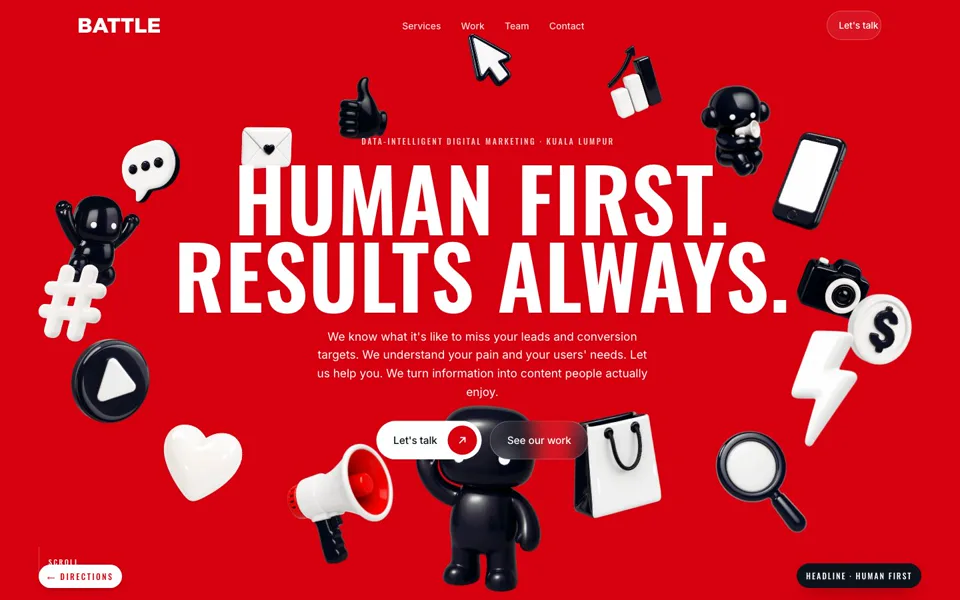
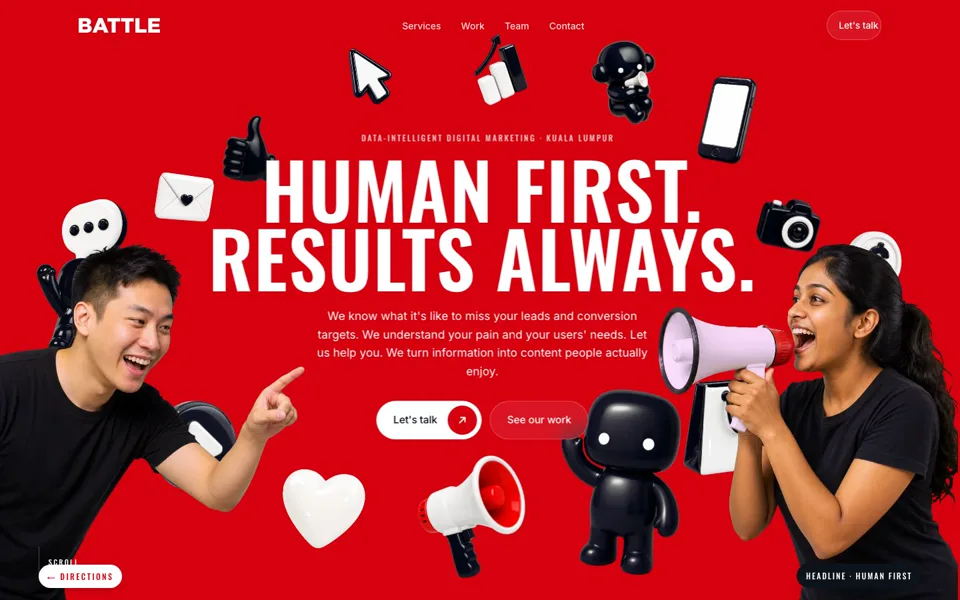
Round 6: people back in the heroes of 21, 22 and 32
Two people lean into the ring on 21 and 22 (load slide-in, pointer parallax,
fly past on scroll); someone crouches by the gachapon machine on 32.
Generic fictional people from the image model, never Battle staff.
?people=0 shows a hero without them.

diff --git a/home-21.html b/home-21.html
@@ -12,12 +12,19 @@
 .hcopy .h1{margin-top:16px}.hcopy .ctas{justify-content:center;opacity:0}
 .hcopy .lead{opacity:0}
 @media (max-width:760px){.hcopy{top:50%;z-index:5}.hcopy .lead{display:none}.h1{font-size:clamp(40px,11.5vw,54px)}.h1.long{font-size:clamp(30px,8.6vw,44px)}}
+.ppl{position:absolute;inset:0;z-index:2;pointer-events:none}
+.pp{position:absolute;bottom:0;height:min(var(--ph,60svh),580px);width:auto;opacity:0;will-change:transform;user-select:none;-webkit-user-drag:none}
+.pp.l{left:0;transform-origin:0 100%}.pp.r{right:0;transform-origin:100% 100%}
+.hcopy{top:48%}
+.hcopy .h1{font-size:clamp(54px,8vw,136px)}.hcopy .h1.long{font-size:clamp(40px,5.6vw,96px)}
+body[data-people="0"] .ppl{display:none}body[data-people="0"] .hcopy .h1{font-size:clamp(54px,9vw,150px)}body[data-people="0"] .hcopy .h1.long{font-size:clamp(44px,6.4vw,108px)}
+@media (max-width:760px){.pp{height:34svh;bottom:-1svh}.pp.l{left:-10vw}.pp.r{right:-10vw}.hcopy{top:42%}.hcopy .h1{font-size:clamp(40px,11.5vw,54px)}}
 .hero{background:var(--red);color:#fff}.cta.gl{color:#fff}</style></head><body class="t21"><a class="back" href="./">← directions</a>
 <header class="nav" id="nav"><div class="wrap"><a class="home" href="#top" aria-label="Battle, back to the top"><img class="lw" src="assets3/battle-white.webp" alt="Battle"><img class="lr" src="assets3/battle-red.webp" alt="" aria-hidden="true"></a>
 <ul><li><a href="#services">Services</a></li><li><a href="#cases">Work</a></li><li><a href="#team">Team</a></li><li><a href="#connect">Contact</a></li></ul>
 <div class="nr"><a class="cta gl sm" href="#connect">Let's talk</a><button class="nb" id="nb" type="button" aria-label="Menu" aria-expanded="false" aria-controls="drawer"><span><i></i><i></i><i></i></span></button></div></div></header>
 <nav class="drawer" id="drawer" aria-label="Menu"><ul><li><a href="#services"><small>01</small>Services</a></li><li><a href="#impact"><small>02</small>Impact</a></li><li><a href="#cases"><small>03</small>Work</a></li><li><a href="#team"><small>04</small>Team</a></li><li><a href="#connect"><small>05</small>Contact</a></li></ul>
-<div class="dct"><a class="cta" href="https://wa.me/60197707927?text=Hi%20Battle%2C%20I%27d%20like%20a%2015-minute%20call%20about%20my%20marketing." target="_blank" rel="noopener">Chat on WhatsApp<span class="ar" aria-hidden="true"><svg viewBox="0 0 16 16"><path d="M4 12 12 4M5.5 4H12v6.5" fill="none" stroke="currentColor" stroke-width="1.8" stroke-linecap="round" stroke-linejoin="round"/></svg><svg viewBox="0 0 16 16"><path d="M4 12 12 4M5.5 4H12v6.5" fill="none" stroke="currentColor" stroke-width="1.8" stroke-linecap="round" stroke-linejoin="round"/></svg></span></a></div><div class="dln"><a href="tel:+60197707927">+6019-770 7927</a><a href="mailto:hello@battlemind.my">hello@battlemind.my</a></div></nav><section class="hero" id="hero" data-tone="dark"><a id="top"></a><div class="ring" id="ring"></div>
+<div class="dct"><a class="cta" href="https://wa.me/60197707927?text=Hi%20Battle%2C%20I%27d%20like%20a%2015-minute%20call%20about%20my%20marketing." target="_blank" rel="noopener">Chat on WhatsApp<span class="ar" aria-hidden="true"><svg viewBox="0 0 16 16"><path d="M4 12 12 4M5.5 4H12v6.5" fill="none" stroke="currentColor" stroke-width="1.8" stroke-linecap="round" stroke-linejoin="round"/></svg><svg viewBox="0 0 16 16"><path d="M4 12 12 4M5.5 4H12v6.5" fill="none" stroke="currentColor" stroke-width="1.8" stroke-linecap="round" stroke-linejoin="round"/></svg></span></a></div><div class="dln"><a href="tel:+60197707927">+6019-770 7927</a><a href="mailto:hello@battlemind.my">hello@battlemind.my</a></div></nav><section class="hero" id="hero" data-tone="dark"><a id="top"></a><div class="ring" id="ring"></div><div class="ppl" aria-hidden="true"><img class="pp l" src="assets2/p_man_l.webp" alt="" draggable="false" style="--ph:60svh"><img class="pp r" src="assets2/p_woman_r.webp" alt="" draggable="false" style="--ph:60svh"></div>
 <div class="hcopy"><div class="hin"><div class="eyebrow"><i></i>Data-intelligent digital marketing · Kuala Lumpur</div><h1 class="h1" id="h1"></h1><p class="lead">We know what it's like to miss your leads and conversion targets. We understand your pain and your users' needs. Let us help you. We turn information into content people actually enjoy.</p><div class="ctas"><a class="cta" href="#connect">Let's talk<span class="ar" aria-hidden="true"><svg viewBox="0 0 16 16"><path d="M4 12 12 4M5.5 4H12v6.5" fill="none" stroke="currentColor" stroke-width="1.8" stroke-linecap="round" stroke-linejoin="round"/></svg><svg viewBox="0 0 16 16"><path d="M4 12 12 4M5.5 4H12v6.5" fill="none" stroke="currentColor" stroke-width="1.8" stroke-linecap="round" stroke-linejoin="round"/></svg></span></a><a class="cta gl" href="#cases">See our work</a></div></div></div>
 <div class="scue" aria-hidden="true"><i></i>Scroll</div></section><section class="sec w" id="clients" data-tone="light"><img class="drift" src="assets2/char2.webp" alt="" aria-hidden="true" loading="lazy" style="right:4%;top:8%;width:clamp(70px,7vw,120px)" data-speed="1.2" data-rot="12"><img class="drift" src="assets2/heart_w.webp" alt="" aria-hidden="true" loading="lazy" style="left:3%;top:70%;width:clamp(50px,5vw,80px)" data-speed="0.8" data-rot="-10"><div class="wrap"><div class="lbl"><span class="act">Results always</span>Our clients</div><h2 class="h2" data-rise>Trusted by <b>160+ Clients</b><br>across <b>14+ Industries</b></h2><div class="lrows" id="lrows" role="list" aria-label="Some of our clients"></div></div></section><section class="sec p" id="services" data-tone="light"><div class="wrap"><div class="shd"><div><div class="lbl"><span class="act hf">Human first</span>How we help</div><h2 class="h2" data-rise>Our <b>Services</b></h2></div><p class="sub" data-rise>Not sure what your marketing actually needs right now? You're not alone, and we're here to help.</p></div>
 <div class="sgrid" id="sgrid" data-icons="assets2"></div>
@@ -40,9 +47,9 @@
 <nav aria-label="Services"><b>Services</b><ul><li><a href="#services">Performance marketing</a></li><li><a href="#services">Creative &amp; content</a></li><li><a href="#services">Web development</a></li><li><a href="#diag">Service finder</a></li></ul></nav>
 <nav aria-label="Company"><b>Company</b><ul><li><a href="#cases">Work</a></li><li><a href="#team">About</a></li><li><a href="#team">Our story</a></li><li><a href="#team">Team</a></li></ul></nav>
 <div><b>Talk</b><ul><li><a href="#connect">Book a 15-minute call</a></li><li><a href="tel:+60197707927">+6019-770 7927</a></li><li><a href="mailto:hello@battlemind.my">hello@battlemind.my</a></li><li><a class="addr" href="https://www.google.com/maps/search/?api=1&amp;query=No.%207-2%2C%20Jalan%202%2F137B%2C%20Resource%20Industrial%20Centre%2C%2058200%20Kuala%20Lumpur" target="_blank" rel="noopener">No. 7-2, Jalan 2/137B, Resource Industrial Centre, Off Jalan Kelang Lama, 58200 Kuala Lumpur</a></li></ul></div></div>
-<div class="fbot"><span>© 2026 Battle Mind Creative Sdn. Bhd. (1379718-A) · BattleX Sdn. Bhd. (1666567-U)</span><a href="#top">Back to top <i aria-hidden="true">↑</i></a></div><div class="big" aria-hidden="true">BATTLE</div></div></footer><div class="note">Direction 21 · the red universe, as a full page. Hero: 22's airy ring of white and black toys orbits the headline on brand red; the ring tilts with the mouse, pieces dodge the cursor, and scrolling flies you through it. Inside the site the same toys drift through the sections (Sue: swirling and getting tangled), the analytics tangle straightens into three moves as you scroll, and every section follows Sue's flow from home-v10 with the deck's copy, logos in their own colours, the diagnostic and the WhatsApp form. Brand: red #D7000F, black #0D131A, white #F1F2F2; Oswald headlines, Inter body, DIN Condensed numbers.</div><button class="tog" id="tog" type="button">Headline · Human first</button><script src="https://cdnjs.cloudflare.com/ajax/libs/gsap/3.12.5/gsap.min.js"></script><script src="https://cdnjs.cloudflare.com/ajax/libs/gsap/3.12.5/ScrollTrigger.min.js"></script><script src="site.js"></script><script>
+<div class="fbot"><span>© 2026 Battle Mind Creative Sdn. Bhd. (1379718-A) · BattleX Sdn. Bhd. (1666567-U)</span><a href="#top">Back to top <i aria-hidden="true">↑</i></a></div><div class="big" aria-hidden="true">BATTLE</div></div></footer><div class="note">Direction 21 · the red universe, as a full page. Hero: two people lean in from the edges (generic fictional people, never Battle staff) while 22's airy ring of white and black toys orbits the headline on brand red; the ring tilts with the mouse, pieces dodge the cursor, and scrolling flies you through it, past the people. Add ?people=0 to the address to see the hero without them. Inside the site the same toys drift through the sections (Sue: swirling and getting tangled), the analytics tangle straightens into three moves as you scroll, and every section follows Sue's flow from home-v10 with the deck's copy, logos in their own colours, the diagnostic and the WhatsApp form. Brand: red #D7000F, black #0D131A, white #F1F2F2; Oswald headlines, Inter body, DIN Condensed numbers.</div><button class="tog" id="tog" type="button">Headline · Human first</button><script src="https://cdnjs.cloudflare.com/ajax/libs/gsap/3.12.5/gsap.min.js"></script><script src="https://cdnjs.cloudflare.com/ajax/libs/gsap/3.12.5/ScrollTrigger.min.js"></script><script src="site.js"></script><script>
 (() => {
-const R = BM.R, q = new URLSearchParams(location.search);
+const R = BM.R, q = new URLSearchParams(location.search); if (q.get('people') === '0') document.body.dataset.people = '0';
 const PIECES = [['char1',1.35],['megaphone_w',1.15],['heart_w',.9],['play_k',.95],['hashtag_w',.9],['char2',1.3],['bubble_w',1],['envelope_w',.95],['thumb_k',1],['cursor_w',.85],['chart_w',1],['char3',1.3],['phone_k',.95],['camera_k',1],['coin_w',.85],['bolt_w',.8],['magnifier_k',1],['bag_w',.95]];
 const ring = document.getElementById('ring'), hero = document.getElementById('hero'); const N = PIECES.length;
 const rnd = i => { const g = Math.sin(i * 12.9898 + 1) * 43758.5453; return g - Math.floor(g); };
@@ -65,9 +72,12 @@ function frame() { if (!run) return; const T = (performance.now() - t0) / 1000;
 new IntersectionObserver(e => { const on = e[0].isIntersecting; if (on && !run) { run = true; frame(); } else if (!on) run = false; }).observe(hero);
 frame();
 hero.addEventListener('pointermove', e => { const r = hero.getBoundingClientRect(); pt = {x: (e.clientX - r.left) / r.width * 2 - 1, y: (e.clientY - r.top) / r.height * 2 - 1}; mouse = {x: e.clientX - r.left, y: e.clientY - r.top};
-  if (!R) gsap.to('.hin', {x: pt.x * 14, y: pt.y * 9, duration: .9, ease: 'power2.out', overwrite: 'auto'}); });
-hero.addEventListener('pointerleave', () => { pt = {x: 0, y: 0}; mouse = {x: -1e4, y: -1e4}; gsap.to('.hin', {x: 0, y: 0, duration: 1}); });
-if (R) { for (const p of P) p.b = 1; gsap.set('.hcopy .ctas, .hcopy .lead', {opacity: 1}); }
-else { const tl = gsap.timeline({delay: .2}); tl.to(P, {b: 1, duration: 1, stagger: {each: .05, from: 'random'}, ease: 'back.out(1.8)'}, 0).to('.h1 .w i', {y: 0, duration: .95, stagger: .12, ease: 'power4.out'}, .35).to('.hcopy .lead', {opacity: 1, duration: .7}, 1).to('.hcopy .ctas', {opacity: 1, duration: .6}, 1.2); }
-if (!R && innerWidth > 760) ScrollTrigger.create({trigger: hero, start: 'top top', end: '+=50%', pin: true, scrub: .5, onUpdate: s => { lift = s.progress; gsap.set('.hin', {scale: 1 - lift * .14, opacity: 1 - lift * 1.25}); gsap.set('.scue', {opacity: 1 - lift * 3}); }});
+  if (!R) { gsap.to('.hin', {x: pt.x * 14, y: pt.y * 9, duration: .9, ease: 'power2.out', overwrite: 'auto'}); if (peopleIn) gsap.to('.pp', {x: -pt.x * 12, y: -pt.y * 6, duration: 1.1, ease: 'power2.out', overwrite: 'auto'}); } });
+hero.addEventListener('pointerleave', () => { pt = {x: 0, y: 0}; mouse = {x: -1e4, y: -1e4}; gsap.to('.hin', {x: 0, y: 0, duration: 1}); if (peopleIn) gsap.to('.pp', {x: 0, y: 0, duration: 1}); });
+let peopleIn = R; const PP = document.querySelectorAll('.pp');
+if (R) { for (const p of P) p.b = 1; gsap.set('.hcopy .ctas, .hcopy .lead', {opacity: 1}); gsap.set(PP, {opacity: 1}); }
+else { const tl = gsap.timeline({delay: .2}); tl.to(P, {b: 1, duration: 1, stagger: {each: .05, from: 'random'}, ease: 'back.out(1.8)'}, 0).to('.h1 .w i', {y: 0, duration: .95, stagger: .12, ease: 'power4.out'}, .35).to('.hcopy .lead', {opacity: 1, duration: .7}, 1).to('.hcopy .ctas', {opacity: 1, duration: .6}, 1.2)
+  .fromTo(PP, {opacity: 0, x: (i, el) => el.classList.contains('l') ? -90 : 90}, {opacity: 1, x: 0, duration: 1.1, stagger: .14, ease: 'power3.out', onComplete: () => { peopleIn = true; }}, .55); }
+if (!R && innerWidth > 760) ScrollTrigger.create({trigger: hero, start: 'top top', end: '+=50%', pin: true, scrub: .5, onUpdate: s => { lift = s.progress; gsap.set('.hin', {scale: 1 - lift * .14, opacity: 1 - lift * 1.25}); gsap.set('.scue', {opacity: 1 - lift * 3});
+  if (peopleIn) { gsap.set('.pp.l', {xPercent: -lift * 70, scale: 1 + lift * .35, opacity: 1 - lift * 1.5}); gsap.set('.pp.r', {xPercent: lift * 70, scale: 1 + lift * .35, opacity: 1 - lift * 1.5}); } }});
 })();</script></body></html>

diff --git a/home-22.html b/home-22.html
@@ -12,12 +12,19 @@
 .hcopy .h1{margin-top:16px}.hcopy .ctas{justify-content:center;opacity:0}
 .hcopy .lead{opacity:0}
 @media (max-width:760px){.hcopy{top:50%;z-index:5}.hcopy .lead{display:none}.h1{font-size:clamp(40px,11.5vw,54px)}.h1.long{font-size:clamp(30px,8.6vw,44px)}}
+.ppl{position:absolute;inset:0;z-index:2;pointer-events:none}
+.pp{position:absolute;bottom:0;height:min(var(--ph,60svh),580px);width:auto;opacity:0;will-change:transform;user-select:none;-webkit-user-drag:none}
+.pp.l{left:0;transform-origin:0 100%}.pp.r{right:0;transform-origin:100% 100%}
+.hcopy{top:48%}
+.hcopy .h1{font-size:clamp(54px,8vw,136px)}.hcopy .h1.long{font-size:clamp(40px,5.6vw,96px)}
+body[data-people="0"] .ppl{display:none}body[data-people="0"] .hcopy .h1{font-size:clamp(54px,9vw,150px)}body[data-people="0"] .hcopy .h1.long{font-size:clamp(44px,6.4vw,108px)}
+@media (max-width:760px){.pp{height:34svh;bottom:-1svh}.pp.l{left:-10vw}.pp.r{right:-10vw}.hcopy{top:42%}.hcopy .h1{font-size:clamp(40px,11.5vw,54px)}}
 .hero{background:#fff;color:var(--ink)}</style></head><body class="t22"><a class="back" href="./">← directions</a>
 <header class="nav" id="nav"><div class="wrap"><a class="home" href="#top" aria-label="Battle, back to the top"><img class="lw" src="assets3/battle-white.webp" alt="Battle"><img class="lr" src="assets3/battle-red.webp" alt="" aria-hidden="true"></a>
 <ul><li><a href="#services">Services</a></li><li><a href="#cases">Work</a></li><li><a href="#team">Team</a></li><li><a href="#connect">Contact</a></li></ul>
 <div class="nr"><a class="cta gl sm" href="#connect">Let's talk</a><button class="nb" id="nb" type="button" aria-label="Menu" aria-expanded="false" aria-controls="drawer"><span><i></i><i></i><i></i></span></button></div></div></header>
 <nav class="drawer" id="drawer" aria-label="Menu"><ul><li><a href="#services"><small>01</small>Services</a></li><li><a href="#impact"><small>02</small>Impact</a></li><li><a href="#cases"><small>03</small>Work</a></li><li><a href="#team"><small>04</small>Team</a></li><li><a href="#connect"><small>05</small>Contact</a></li></ul>
-<div class="dct"><a class="cta" href="https://wa.me/60197707927?text=Hi%20Battle%2C%20I%27d%20like%20a%2015-minute%20call%20about%20my%20marketing." target="_blank" rel="noopener">Chat on WhatsApp<span class="ar" aria-hidden="true"><svg viewBox="0 0 16 16"><path d="M4 12 12 4M5.5 4H12v6.5" fill="none" stroke="currentColor" stroke-width="1.8" stroke-linecap="round" stroke-linejoin="round"/></svg><svg viewBox="0 0 16 16"><path d="M4 12 12 4M5.5 4H12v6.5" fill="none" stroke="currentColor" stroke-width="1.8" stroke-linecap="round" stroke-linejoin="round"/></svg></span></a></div><div class="dln"><a href="tel:+60197707927">+6019-770 7927</a><a href="mailto:hello@battlemind.my">hello@battlemind.my</a></div></nav><section class="hero" id="hero" data-tone="light"><a id="top"></a><div class="ring" id="ring"></div>
+<div class="dct"><a class="cta" href="https://wa.me/60197707927?text=Hi%20Battle%2C%20I%27d%20like%20a%2015-minute%20call%20about%20my%20marketing." target="_blank" rel="noopener">Chat on WhatsApp<span class="ar" aria-hidden="true"><svg viewBox="0 0 16 16"><path d="M4 12 12 4M5.5 4H12v6.5" fill="none" stroke="currentColor" stroke-width="1.8" stroke-linecap="round" stroke-linejoin="round"/></svg><svg viewBox="0 0 16 16"><path d="M4 12 12 4M5.5 4H12v6.5" fill="none" stroke="currentColor" stroke-width="1.8" stroke-linecap="round" stroke-linejoin="round"/></svg></span></a></div><div class="dln"><a href="tel:+60197707927">+6019-770 7927</a><a href="mailto:hello@battlemind.my">hello@battlemind.my</a></div></nav><section class="hero" id="hero" data-tone="light"><a id="top"></a><div class="ring" id="ring"></div><div class="ppl" aria-hidden="true"><img class="pp l" src="assets2/p_woman_l2.webp" alt="" draggable="false" style="--ph:50svh"><img class="pp r" src="assets2/p_man_r2.webp" alt="" draggable="false" style="--ph:58svh"></div>
 <div class="hcopy"><div class="hin"><div class="eyebrow"><i></i>Data-intelligent digital marketing · Kuala Lumpur</div><h1 class="h1" id="h1"></h1><p class="lead">We know what it's like to miss your leads and conversion targets. We understand your pain and your users' needs. Let us help you. We turn information into content people actually enjoy.</p><div class="ctas"><a class="cta rd" href="#connect">Let's talk<span class="ar" aria-hidden="true"><svg viewBox="0 0 16 16"><path d="M4 12 12 4M5.5 4H12v6.5" fill="none" stroke="currentColor" stroke-width="1.8" stroke-linecap="round" stroke-linejoin="round"/></svg><svg viewBox="0 0 16 16"><path d="M4 12 12 4M5.5 4H12v6.5" fill="none" stroke="currentColor" stroke-width="1.8" stroke-linecap="round" stroke-linejoin="round"/></svg></span></a><a class="cta gl dk" href="#cases">See our work</a></div></div></div>
 <div class="scue" aria-hidden="true"><i></i>Scroll</div></section><section class="sec p" id="clients" data-tone="light"><img class="drift" src="assets2/char2.webp" alt="" aria-hidden="true" loading="lazy" style="right:4%;top:8%;width:clamp(70px,7vw,120px)" data-speed="1.2" data-rot="12"><img class="drift" src="assets2/heart_r.webp" alt="" aria-hidden="true" loading="lazy" style="left:3%;top:70%;width:clamp(50px,5vw,80px)" data-speed="0.8" data-rot="-10"><div class="wrap"><div class="lbl"><span class="act">Results always</span>Our clients</div><h2 class="h2" data-rise>Trusted by <b>160+ Clients</b><br>across <b>14+ Industries</b></h2><div class="lrows" id="lrows" role="list" aria-label="Some of our clients"></div></div></section><section class="sec w" id="services" data-tone="light"><div class="wrap"><div class="shd"><div><div class="lbl"><span class="act hf">Human first</span>How we help</div><h2 class="h2" data-rise>Our <b>Services</b></h2></div><p class="sub" data-rise>Not sure what your marketing actually needs right now? You're not alone, and we're here to help.</p></div>
 <div class="sgrid" id="sgrid" data-icons="assets2"></div>
@@ -40,9 +47,9 @@
 <nav aria-label="Services"><b>Services</b><ul><li><a href="#services">Performance marketing</a></li><li><a href="#services">Creative &amp; content</a></li><li><a href="#services">Web development</a></li><li><a href="#diag">Service finder</a></li></ul></nav>
 <nav aria-label="Company"><b>Company</b><ul><li><a href="#cases">Work</a></li><li><a href="#team">About</a></li><li><a href="#team">Our story</a></li><li><a href="#team">Team</a></li></ul></nav>
 <div><b>Talk</b><ul><li><a href="#connect">Book a 15-minute call</a></li><li><a href="tel:+60197707927">+6019-770 7927</a></li><li><a href="mailto:hello@battlemind.my">hello@battlemind.my</a></li><li><a class="addr" href="https://www.google.com/maps/search/?api=1&amp;query=No.%207-2%2C%20Jalan%202%2F137B%2C%20Resource%20Industrial%20Centre%2C%2058200%20Kuala%20Lumpur" target="_blank" rel="noopener">No. 7-2, Jalan 2/137B, Resource Industrial Centre, Off Jalan Kelang Lama, 58200 Kuala Lumpur</a></li></ul></div></div>
-<div class="fbot"><span>© 2026 Battle Mind Creative Sdn. Bhd. (1379718-A) · BattleX Sdn. Bhd. (1666567-U)</span><a href="#top">Back to top <i aria-hidden="true">↑</i></a></div><div class="big" aria-hidden="true">BATTLE</div></div></footer><div class="note">Direction 22 · the white universe, as a full page. Hero: red and black toys orbit the headline on white; mouse tilt, cursor dodge, scroll fly-through. The rest follows Sue's flow from home-v10: clients in their own colours, services with the deck's copy and the diagnostic, impact numbers in DIN Condensed, the analytics tangle that straightens, case studies, team ribbons, the WhatsApp form. Brand colours and fonts only.</div><button class="tog" id="tog" type="button">Headline · Human first</button><script src="https://cdnjs.cloudflare.com/ajax/libs/gsap/3.12.5/gsap.min.js"></script><script src="https://cdnjs.cloudflare.com/ajax/libs/gsap/3.12.5/ScrollTrigger.min.js"></script><script src="site.js"></script><script>
+<div class="fbot"><span>© 2026 Battle Mind Creative Sdn. Bhd. (1379718-A) · BattleX Sdn. Bhd. (1666567-U)</span><a href="#top">Back to top <i aria-hidden="true">↑</i></a></div><div class="big" aria-hidden="true">BATTLE</div></div></footer><div class="note">Direction 22 · the white universe, as a full page. Hero: two people lean in from the edges (generic fictional people, never Battle staff) while red and black toys orbit the headline on white; mouse tilt, cursor dodge, scroll fly-through past the people. Add ?people=0 to the address to see the hero without them. The rest follows Sue's flow from home-v10: clients in their own colours, services with the deck's copy and the diagnostic, impact numbers in DIN Condensed, the analytics tangle that straightens, case studies, team ribbons, the WhatsApp form. Brand colours and fonts only.</div><button class="tog" id="tog" type="button">Headline · Human first</button><script src="https://cdnjs.cloudflare.com/ajax/libs/gsap/3.12.5/gsap.min.js"></script><script src="https://cdnjs.cloudflare.com/ajax/libs/gsap/3.12.5/ScrollTrigger.min.js"></script><script src="site.js"></script><script>
 (() => {
-const R = BM.R, q = new URLSearchParams(location.search);
+const R = BM.R, q = new URLSearchParams(location.search); if (q.get('people') === '0') document.body.dataset.people = '0';
 const PIECES = [['char1',1.35],['megaphone_r',1.15],['heart_r',.9],['play_r',.95],['hashtag_r',.9],['char2',1.3],['bubble_k',1],['envelope_r',.95],['thumb_k',1],['cursor_k',.85],['chart_r',1],['char3',1.3],['phone_k',.95],['camera_k',1],['coin_k',.85],['bolt_r',.8],['magnifier_k',1],['bag_r',.95]];
 const ring = document.getElementById('ring'), hero = document.getElementById('hero'); const N = PIECES.length;
 const rnd = i => { const g = Math.sin(i * 12.9898 + 1) * 43758.5453; return g - Math.floor(g); };
@@ -65,9 +72,12 @@ function frame() { if (!run) return; const T = (performance.now() - t0) / 1000;
 new IntersectionObserver(e => { const on = e[0].isIntersecting; if (on && !run) { run = true; frame(); } else if (!on) run = false; }).observe(hero);
 frame();
 hero.addEventListener('pointermove', e => { const r = hero.getBoundingClientRect(); pt = {x: (e.clientX - r.left) / r.width * 2 - 1, y: (e.clientY - r.top) / r.height * 2 - 1}; mouse = {x: e.clientX - r.left, y: e.clientY - r.top};
-  if (!R) gsap.to('.hin', {x: pt.x * 14, y: pt.y * 9, duration: .9, ease: 'power2.out', overwrite: 'auto'}); });
-hero.addEventListener('pointerleave', () => { pt = {x: 0, y: 0}; mouse = {x: -1e4, y: -1e4}; gsap.to('.hin', {x: 0, y: 0, duration: 1}); });
-if (R) { for (const p of P) p.b = 1; gsap.set('.hcopy .ctas, .hcopy .lead', {opacity: 1}); }
-else { const tl = gsap.timeline({delay: .2}); tl.to(P, {b: 1, duration: 1, stagger: {each: .05, from: 'random'}, ease: 'back.out(1.8)'}, 0).to('.h1 .w i', {y: 0, duration: .95, stagger: .12, ease: 'power4.out'}, .35).to('.hcopy .lead', {opacity: 1, duration: .7}, 1).to('.hcopy .ctas', {opacity: 1, duration: .6}, 1.2); }
-if (!R && innerWidth > 760) ScrollTrigger.create({trigger: hero, start: 'top top', end: '+=50%', pin: true, scrub: .5, onUpdate: s => { lift = s.progress; gsap.set('.hin', {scale: 1 - lift * .14, opacity: 1 - lift * 1.25}); gsap.set('.scue', {opacity: 1 - lift * 3}); }});
+  if (!R) { gsap.to('.hin', {x: pt.x * 14, y: pt.y * 9, duration: .9, ease: 'power2.out', overwrite: 'auto'}); if (peopleIn) gsap.to('.pp', {x: -pt.x * 12, y: -pt.y * 6, duration: 1.1, ease: 'power2.out', overwrite: 'auto'}); } });
+hero.addEventListener('pointerleave', () => { pt = {x: 0, y: 0}; mouse = {x: -1e4, y: -1e4}; gsap.to('.hin', {x: 0, y: 0, duration: 1}); if (peopleIn) gsap.to('.pp', {x: 0, y: 0, duration: 1}); });
+let peopleIn = R; const PP = document.querySelectorAll('.pp');
+if (R) { for (const p of P) p.b = 1; gsap.set('.hcopy .ctas, .hcopy .lead', {opacity: 1}); gsap.set(PP, {opacity: 1}); }
+else { const tl = gsap.timeline({delay: .2}); tl.to(P, {b: 1, duration: 1, stagger: {each: .05, from: 'random'}, ease: 'back.out(1.8)'}, 0).to('.h1 .w i', {y: 0, duration: .95, stagger: .12, ease: 'power4.out'}, .35).to('.hcopy .lead', {opacity: 1, duration: .7}, 1).to('.hcopy .ctas', {opacity: 1, duration: .6}, 1.2)
+  .fromTo(PP, {opacity: 0, x: (i, el) => el.classList.contains('l') ? -90 : 90}, {opacity: 1, x: 0, duration: 1.1, stagger: .14, ease: 'power3.out', onComplete: () => { peopleIn = true; }}, .55); }
+if (!R && innerWidth > 760) ScrollTrigger.create({trigger: hero, start: 'top top', end: '+=50%', pin: true, scrub: .5, onUpdate: s => { lift = s.progress; gsap.set('.hin', {scale: 1 - lift * .14, opacity: 1 - lift * 1.25}); gsap.set('.scue', {opacity: 1 - lift * 3});
+  if (peopleIn) { gsap.set('.pp.l', {xPercent: -lift * 70, scale: 1 + lift * .35, opacity: 1 - lift * 1.5}); gsap.set('.pp.r', {xPercent: lift * 70, scale: 1 + lift * .35, opacity: 1 - lift * 1.5}); } }});
 })();</script></body></html>

diff --git a/home-32.html b/home-32.html
@@ -28,7 +28,9 @@
 .callout small{display:block;font:500 10px var(--h);letter-spacing:.22em;color:#ff6b70;text-transform:uppercase}
 .callout b{display:block;font:600 20px/1.1 var(--h);letter-spacing:.03em;text-transform:uppercase}
 .scue.w{color:#fff}
-@media (max-width:760px){.machine{height:60vh;right:-10vw}.h1b{top:12%;translate:0 0;width:90vw}.h1b .lead{display:none}.cap{display:none}.pile,.veil,.h1a{display:none}.h1b{opacity:1}}
+.stage .pp{position:absolute;left:0;bottom:0;height:34vh;width:auto;opacity:1;user-select:none;-webkit-user-drag:none}
+body[data-people="0"] .stage .pp{display:none}
+@media (max-width:760px){.machine{height:60vh;right:-10vw}.h1b{top:12%;translate:0 0;width:90vw}.h1b .lead{display:none}.cap{display:none}.pile,.veil,.h1a{display:none}.h1b{opacity:1}.stage .pp{left:2vw!important;height:30svh}}
 
 .capsule{display:block;width:clamp(70px,7vw,110px);aspect-ratio:1;border-radius:50%;overflow:hidden;position:absolute;filter:drop-shadow(0 20px 24px rgba(13,19,26,.22))}
 .capsule .ct,.capsule .cb{position:absolute;left:0;width:100%;height:50%}
@@ -48,7 +50,7 @@
 <div class="nr"><a class="cta gl sm" href="#connect">Let's talk</a><button class="nb" id="nb" type="button" aria-label="Menu" aria-expanded="false" aria-controls="drawer"><span><i></i><i></i><i></i></span></button></div></div></header>
 <nav class="drawer" id="drawer" aria-label="Menu"><ul><li><a href="#services"><small>01</small>Services</a></li><li><a href="#impact"><small>02</small>Impact</a></li><li><a href="#cases"><small>03</small>Work</a></li><li><a href="#team"><small>04</small>Team</a></li><li><a href="#connect"><small>05</small>Contact</a></li></ul>
 <div class="dct"><a class="cta" href="https://wa.me/60197707927?text=Hi%20Battle%2C%20I%27d%20like%20a%2015-minute%20call%20about%20my%20marketing." target="_blank" rel="noopener">Chat on WhatsApp<span class="ar" aria-hidden="true"><svg viewBox="0 0 16 16"><path d="M4 12 12 4M5.5 4H12v6.5" fill="none" stroke="currentColor" stroke-width="1.8" stroke-linecap="round" stroke-linejoin="round"/></svg><svg viewBox="0 0 16 16"><path d="M4 12 12 4M5.5 4H12v6.5" fill="none" stroke="currentColor" stroke-width="1.8" stroke-linecap="round" stroke-linejoin="round"/></svg></span></a></div><div class="dln"><a href="tel:+60197707927">+6019-770 7927</a><a href="mailto:hello@battlemind.my">hello@battlemind.my</a></div></nav><section class="hero" id="hero" data-tone="dark"><a id="top"></a>
-<div class="stage" id="stage"><img class="machine" id="machine" src="assets2/machine.webp" alt="Capsule-toy machine full of marketing tools" draggable="false"></div>
+<div class="stage" id="stage"><img class="machine" id="machine" src="assets2/machine.webp" alt="Capsule-toy machine full of marketing tools" draggable="false"><img class="pp" id="ppg" src="assets2/p_gacha.webp" alt="" draggable="false" aria-hidden="true"></div>
 <div class="pile" id="pile"></div><div class="veil" id="veil"></div>
 <div class="h1a" id="h1a"><h1 class="h1"></h1><p class="lead">Every tool in digital marketing, in one machine. Scroll to see what's inside.</p></div>
 <div class="h1b" id="h1b"><div class="eyebrow"><i></i>Data-intelligent digital marketing · Kuala Lumpur</div><h1 class="h1"></h1><p class="lead">We know what it's like to miss your leads and conversion targets. We understand your pain and your users' needs. Let us help you. We turn information into content people actually enjoy.</p><div class="ctas"><a class="cta rd" href="#connect">Let's talk<span class="ar" aria-hidden="true"><svg viewBox="0 0 16 16"><path d="M4 12 12 4M5.5 4H12v6.5" fill="none" stroke="currentColor" stroke-width="1.8" stroke-linecap="round" stroke-linejoin="round"/></svg><svg viewBox="0 0 16 16"><path d="M4 12 12 4M5.5 4H12v6.5" fill="none" stroke="currentColor" stroke-width="1.8" stroke-linecap="round" stroke-linejoin="round"/></svg></span></a><a class="cta gl dk" href="#cases">See our work</a></div></div>
@@ -74,9 +76,9 @@
 <nav aria-label="Services"><b>Services</b><ul><li><a href="#services">Performance marketing</a></li><li><a href="#services">Creative &amp; content</a></li><li><a href="#services">Web development</a></li><li><a href="#diag">Service finder</a></li></ul></nav>
 <nav aria-label="Company"><b>Company</b><ul><li><a href="#cases">Work</a></li><li><a href="#team">About</a></li><li><a href="#team">Our story</a></li><li><a href="#team">Team</a></li></ul></nav>
 <div><b>Talk</b><ul><li><a href="#connect">Book a 15-minute call</a></li><li><a href="tel:+60197707927">+6019-770 7927</a></li><li><a href="mailto:hello@battlemind.my">hello@battlemind.my</a></li><li><a class="addr" href="https://www.google.com/maps/search/?api=1&amp;query=No.%207-2%2C%20Jalan%202%2F137B%2C%20Resource%20Industrial%20Centre%2C%2058200%20Kuala%20Lumpur" target="_blank" rel="noopener">No. 7-2, Jalan 2/137B, Resource Industrial Centre, Off Jalan Kelang Lama, 58200 Kuala Lumpur</a></li></ul></div></div>
-<div class="fbot"><span>© 2026 Battle Mind Creative Sdn. Bhd. (1379718-A) · BattleX Sdn. Bhd. (1666567-U)</span><a href="#top">Back to top <i aria-hidden="true">↑</i></a></div><div class="big" aria-hidden="true">BATTLE</div></div></footer><div class="note">Direction 32 · the gachapon, as a full page. Hero: you open zoomed into the pile inside the dome; the first scroll pulls back to the whole machine, then each scroll dispenses a capsule that opens into one service, four in a tray. Inside the site the capsule carries on: the service cards sit in capsules that pop open on hover, the impact numbers carry a capsule each, capsules drift through the contact section. Sue's flow from home-v10, the deck's copy, brand colours and fonts only.</div><button class="tog" id="tog" type="button">Headline · Human first</button><script src="https://cdnjs.cloudflare.com/ajax/libs/gsap/3.12.5/gsap.min.js"></script><script src="https://cdnjs.cloudflare.com/ajax/libs/gsap/3.12.5/ScrollTrigger.min.js"></script><script src="site.js"></script><script>
+<div class="fbot"><span>© 2026 Battle Mind Creative Sdn. Bhd. (1379718-A) · BattleX Sdn. Bhd. (1666567-U)</span><a href="#top">Back to top <i aria-hidden="true">↑</i></a></div><div class="big" aria-hidden="true">BATTLE</div></div></footer><div class="note">Direction 32 · the gachapon, as a full page. Hero: you open zoomed into the pile inside the dome; the first scroll pulls back to the whole machine, then each scroll dispenses a capsule that opens into one service, four in a tray, with someone crouched by the machine waiting for it (a generic fictional person, never Battle staff; add ?people=0 to hide her). Inside the site the capsule carries on: the service cards sit in capsules that pop open on hover, the impact numbers carry a capsule each, capsules drift through the contact section. Sue's flow from home-v10, the deck's copy, brand colours and fonts only.</div><button class="tog" id="tog" type="button">Headline · Human first</button><script src="https://cdnjs.cloudflare.com/ajax/libs/gsap/3.12.5/gsap.min.js"></script><script src="https://cdnjs.cloudflare.com/ajax/libs/gsap/3.12.5/ScrollTrigger.min.js"></script><script src="site.js"></script><script>
 (() => {
-const R = BM.R, q = new URLSearchParams(location.search);
+const R = BM.R, q = new URLSearchParams(location.search); if (q.get('people') === '0') document.body.dataset.people = '0';
 const M = {dx: +(q.get("dx") || .495), dy: +(q.get("dy") || .28), dd: +(q.get("dd") || .77), cx: +(q.get("cx") || .30), cy: +(q.get("cy") || .84)};
 const SV = [['cursor_r', '01 · Web & e-commerce', 'Build your conversion engine'], ['megaphone_r', '02 · Performance', 'High-intent paid traffic'], ['play_r', '03 · Creative & content', 'Scroll-stopping creative'], ['magnifier_r', '04 · Organic & AI search', 'Organic brand authority']];
 const hero = document.getElementById('hero'), stage = document.getElementById('stage'), machine = document.getElementById('machine'), pile = document.getElementById('pile'), veil = document.getElementById('veil'), h1a = document.getElementById('h1a'), h1b = document.getElementById('h1b'), callout = document.getElementById('callout'), scue = document.getElementById('scue');
@@ -86,7 +88,9 @@ function layout() { w = hero.clientWidth; h = hero.clientHeight; const r = machi
   const mx = r.left - hr.left, my = r.top - hr.top; dome = {x: mx + r.width * M.dx, y: my + r.height * M.dy, d: r.width * M.dd}; chute = {x: mx + r.width * M.cx, y: my + r.height * M.cy};
   stage.style.transformOrigin = `${dome.x}px ${dome.y}px`; S0 = Math.hypot(w, h) * 1.02 / dome.d;
   land = {x: Math.min(w * .56, mx - 110), y: h * .72}; const gut = parseFloat(getComputedStyle(document.documentElement).getPropertyValue('--gut')) || 40;
-  slots = SV.map((s, k) => ({x: gut + 60 + k * Math.min(200, (land.x - gut - 40) / 4), y: h * .86})); }
+  slots = SV.map((s, k) => ({x: gut + 60 + k * Math.min(200, (land.x - gut - 40) / 4), y: h * .86}));
+  if (w > 760) ppg.style.left = Math.max(w * .3, land.x - 85 - ppg.offsetWidth) + 'px'; }
+const ppg = document.getElementById('ppg'); ppg.addEventListener('load', layout);
 layout(); addEventListener('resize', () => { layout(); build(); });
 let ptr = {x: 0, y: 0}, pt = {x: 0, y: 0};
 function zoom(z) { const e = gsap.parseEase('power2.inOut')(z); const sc = S0 + (1 - S0) * e, tx = (w / 2 - dome.x) * (1 - e) + ptr.x * 12 * (1 - e), ty = (h / 2 - dome.y) * (1 - e) + ptr.y * 8 * (1 - e);

diff --git a/index.html b/index.html
@@ -20,14 +20,14 @@ h1{font-weight:800;letter-spacing:-.03em;font-size:clamp(34px,4.5vw,60px);line-h
 .mv{display:grid;grid-template-columns:repeat(auto-fit,minmax(380px,1fr));gap:28px;padding:0 40px 70px;max-width:1400px;margin:0 auto}.mv .card video{display:block;width:100%;aspect-ratio:16/10;background:#111}.mv .card .b a{color:var(--red);font-weight:600;text-decoration:none;margin-right:16px}
 .foot{padding:0 40px 60px;max-width:1400px;margin:0 auto;color:#666;font-size:13px}
 </style></head><body>
-<div class="top" id="full"><div class="lbl">Round 5 · David, 7 Nov · full-page experiences</div>
-<h1>21, 22 and 32 as whole homepages.</h1>
-<div class="brief"><span class="r">21 red universe</span><span class="r">22 white universe</span><span class="r">32 gachapon</span><span>Sue's flow from home-v10</span><span>brand: #D7000F · #0D131A · #F1F2F2</span><span>Oswald · Inter · DIN Condensed</span></div>
-<p class="note">Each one is a complete homepage: its hero, then Sue's eight sections from home-v10 in order (clients, services with the deck's diagnostic, impact, analytics to plan, case studies, team, the 15-minute call, footer) with the deck's copy and Battle's logo, colours and fonts. Open on a laptop, move the mouse, scroll; the pill at the bottom right switches the headline. Phones get a lighter version.</p></div>
+<div class="top" id="full"><div class="lbl">Round 5 + 6 · David, 7 Nov · full-page experiences, now with people</div>
+<h1>21, 22 and 32 as whole homepages, with people in the hero.</h1>
+<div class="brief"><span class="r">21 red universe</span><span class="r">22 white universe</span><span class="r">32 gachapon</span><span class="r">people back in the hero</span><span>Sue's flow from home-v10</span><span>brand: #D7000F · #0D131A · #F1F2F2</span><span>Oswald · Inter · DIN Condensed</span></div>
+<p class="note">Each one is a complete homepage: its hero, then Sue's eight sections from home-v10 in order (clients, services with the deck's diagnostic, impact, analytics to plan, case studies, team, the 15-minute call, footer) with the deck's copy and Battle's logo, colours and fonts. Open on a laptop, move the mouse, scroll; the pill at the bottom right switches the headline. Phones get a lighter version. Round 6 (same evening): David picked the version with people, so each hero now has people leaning into the scene as in the 21 render. They are generic fictional people from the image model, never Battle staff; for the real site they would be shot with the team. Add <code>?people=0</code> to a page address to see the hero without them.</p></div>
 <div class="mv">
- <div class="card"><a href="home-21.html"><img src="gen/full-21.webp" alt="21 · red universe, full page" style="aspect-ratio:16/10;cursor:pointer"></a><div class="b"><h2><small>21</small>Red universe, full page</h2><p>The white and black toys orbit the headline on brand red; the ring tilts with the mouse and flies past as you scroll. The same toys drift through the sections, and the analytics tangle straightens into three moves.</p><p style="margin-top:12px"><a href="home-21.html">Open the full page →</a></p></div></div>
- <div class="card"><a href="home-22.html"><img src="gen/full-22.webp" alt="22 · white universe, full page" style="aspect-ratio:16/10;cursor:pointer"></a><div class="b"><h2><small>22</small>White universe, full page</h2><p>Red and black toys on white: the same orbit, mouse tilt and fly-through, with the dark impact band and a paper-grey client wall. Nine new red and black pieces were made for it.</p><p style="margin-top:12px"><a href="home-22.html">Open the full page →</a></p></div></div>
- <div class="card"><a href="home-32.html"><img src="gen/full-32.webp" alt="32 · gachapon, full page" style="aspect-ratio:16/10;cursor:pointer"></a><div class="b"><h2><small>32</small>Gachapon, full page</h2><p>Opens inside the dome, zooms out to the machine, dispenses the four services into a tray. The capsule carries on below: service cards in capsules that pop open on hover, a capsule on every impact number, capsules drifting through the contact section.</p><p style="margin-top:12px"><a href="home-32.html">Open the full page →</a></p></div></div>
+ <div class="card"><a href="home-21.html"><img src="gen/full-21.webp" alt="21 · red universe, full page" style="aspect-ratio:16/10;cursor:pointer"></a><div class="b"><h2><small>21</small>Red universe, full page</h2><p>Two people lean in from the edges while the white and black toys orbit the headline on brand red; the ring tilts with the mouse and flies past as you scroll, and the people fly past with it. The same toys drift through the sections, and the analytics tangle straightens into three moves.</p><p style="margin-top:12px"><a href="home-21.html">Open the full page →</a></p></div></div>
+ <div class="card"><a href="home-22.html"><img src="gen/full-22.webp" alt="22 · white universe, full page" style="aspect-ratio:16/10;cursor:pointer"></a><div class="b"><h2><small>22</small>White universe, full page</h2><p>Red and black toys on white with a second pair of people at the edges: the same orbit, mouse tilt and fly-through, with the dark impact band and a paper-grey client wall. Nine new red and black pieces were made for it.</p><p style="margin-top:12px"><a href="home-22.html">Open the full page →</a></p></div></div>
+ <div class="card"><a href="home-32.html"><img src="gen/full-32.webp" alt="32 · gachapon, full page" style="aspect-ratio:16/10;cursor:pointer"></a><div class="b"><h2><small>32</small>Gachapon, full page</h2><p>Opens inside the dome, zooms out to the machine, dispenses the four services into a tray while someone crouches by the machine waiting for each capsule. The capsule carries on below: service cards in capsules that pop open on hover, a capsule on every impact number, capsules drifting through the contact section.</p><p style="margin-top:12px"><a href="home-32.html">Open the full page →</a></p></div></div>
 </div>
 <div class="top" id="motion"><div class="lbl">Round 4 · Ian &amp; Sue, 6 Nov 15:26 · motion previews</div>
 <h1>22 on 21's red, and 32 in motion.</h1>
